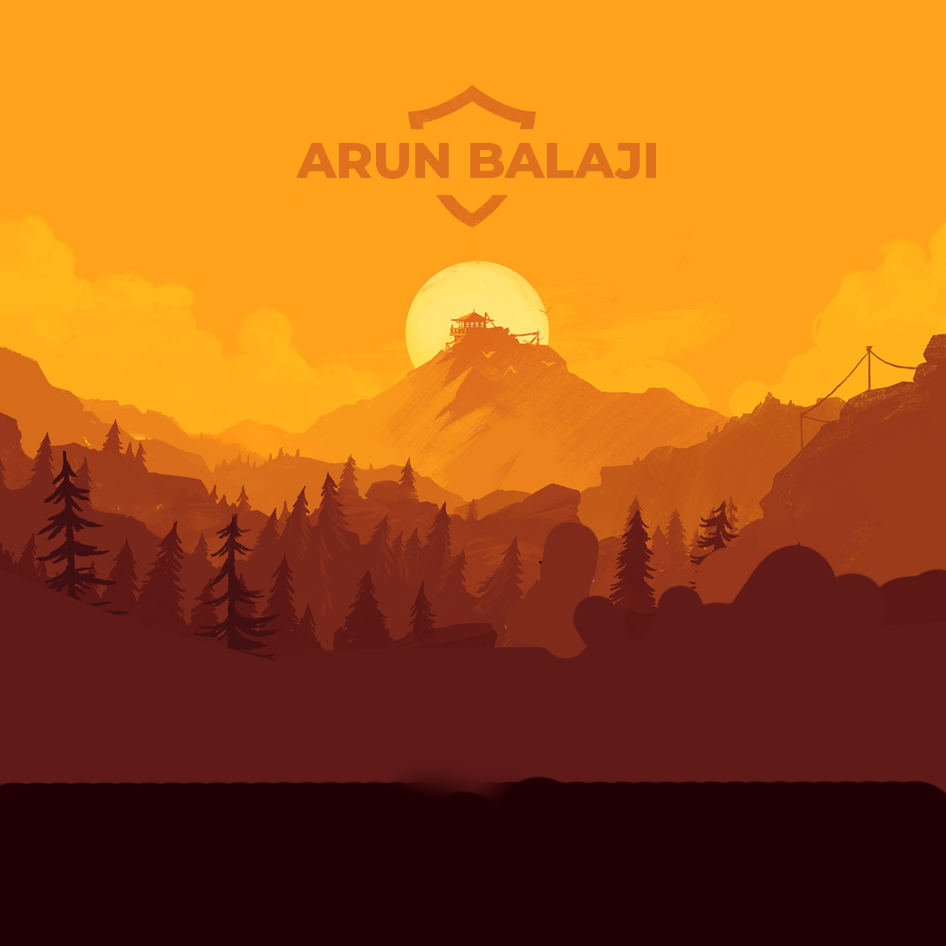
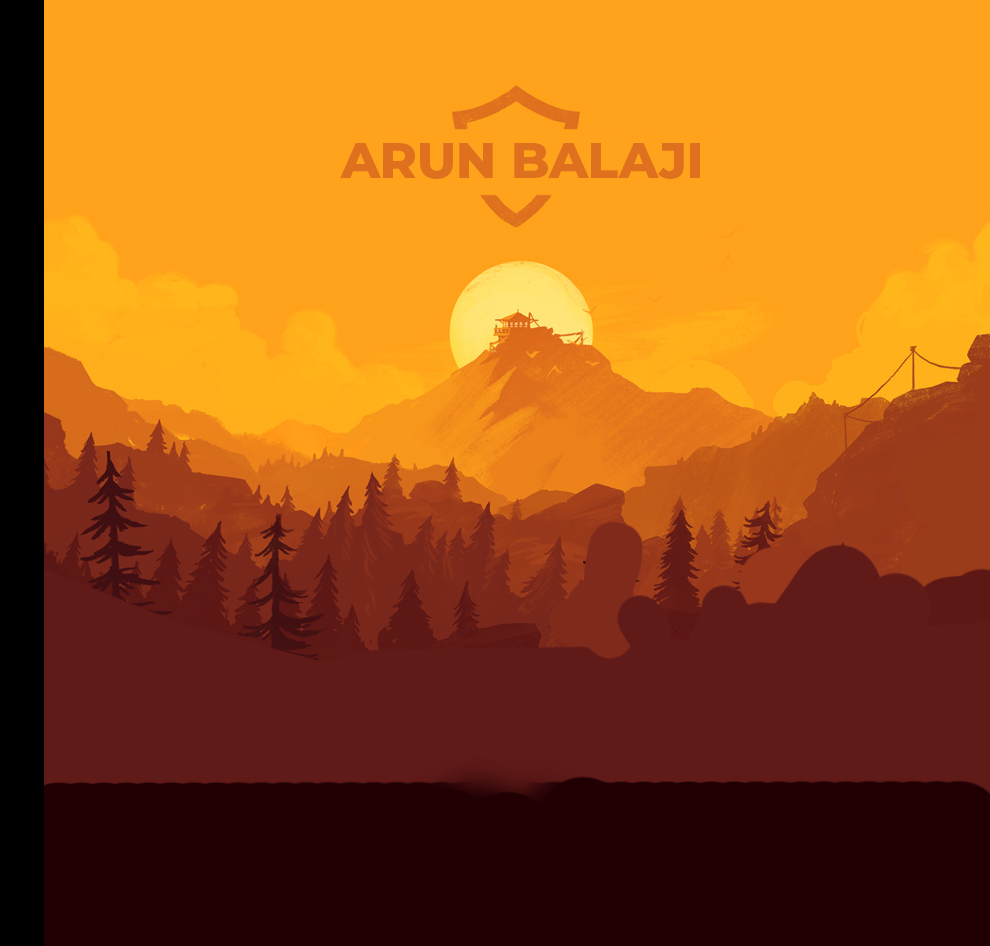
NetworkImages

diff --git a/lib/title.dart b/lib/title.dart
@@ -25,13 +25,16 @@ class AnimativeTitle extends StatelessWidget {
         child: Column(
           mainAxisAlignment: MainAxisAlignment.center,
           children: <Widget>[
-            Text(
-              'Arun Balaji R',
-              style: GoogleFonts.montserrat(
-                fontSize: namefontSize,
-                fontStyle: FontStyle.normal,
-                fontWeight: FontWeight.w700,
-                color: kYellow,
+            Padding(
+              padding: const EdgeInsets.all(10.0),
+              child: Text(
+                'Arun Balaji R',
+                style: GoogleFonts.montserrat(
+                  fontSize: namefontSize,
+                  fontStyle: FontStyle.normal,
+                  fontWeight: FontWeight.w700,
+                  color: kYellow,
+                ),
               ),
             ),
             SizedBox(height: 10),

diff --git a/lib/mobile.dart b/lib/mobile.dart
@@ -110,14 +110,13 @@ class _MobileHomePageState extends State<MobileHomePage> {
                         height: sheight,
                         color: kDarkBrownColor,
                         width: double.infinity,
-                        padding: EdgeInsets.only(top: 70),
+                        // padding: EdgeInsets.only(top: 20),
                         child: Container(
                           height: sheight,
                           width: swidth,
                           child: Column(
                             mainAxisAlignment: MainAxisAlignment.center,
                             children: <Widget>[
-                              SizedBox(),
                               Center(
                                 child: name,
                               ),

diff --git a/web/index.html b/web/index.html
@@ -24,7 +24,8 @@
   <link rel="apple-touch-icon" href="icons/Icon-192.png">
 
   <!-- Favicon -->
-  <link rel="icon" type="image/png" href="favicon.png"/>
+  <link rel="shortcut icon" href="favicon.ico" type="image/x-icon">
+  <link rel="icon" href="favicon.ico" type="image/x-icon">
 
   <title>portfolio</title>
   <link rel="manifest" href="manifest.json">

diff --git a/lib/icons.dart b/lib/icons.dart
@@ -96,6 +96,7 @@ class HoverIcon extends StatelessWidget {
       direction: Direction.vertical,
       offset: 1.0,
       child: GestureDetector(
+
         onTap: (){
           _launchURL(url);
         },
